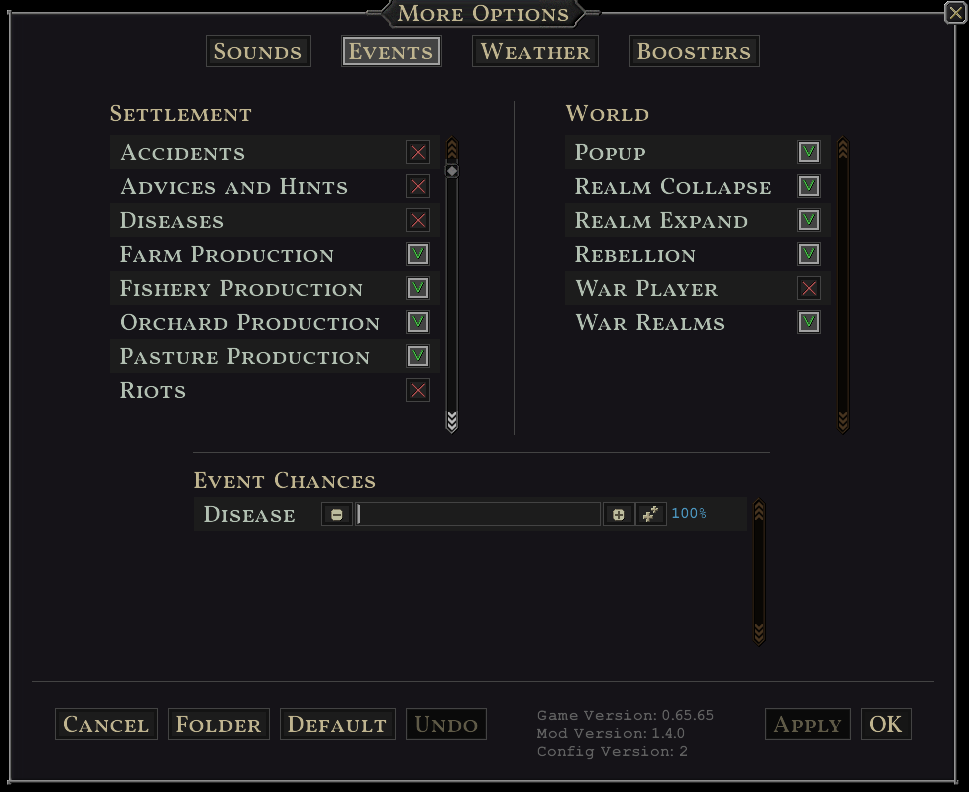
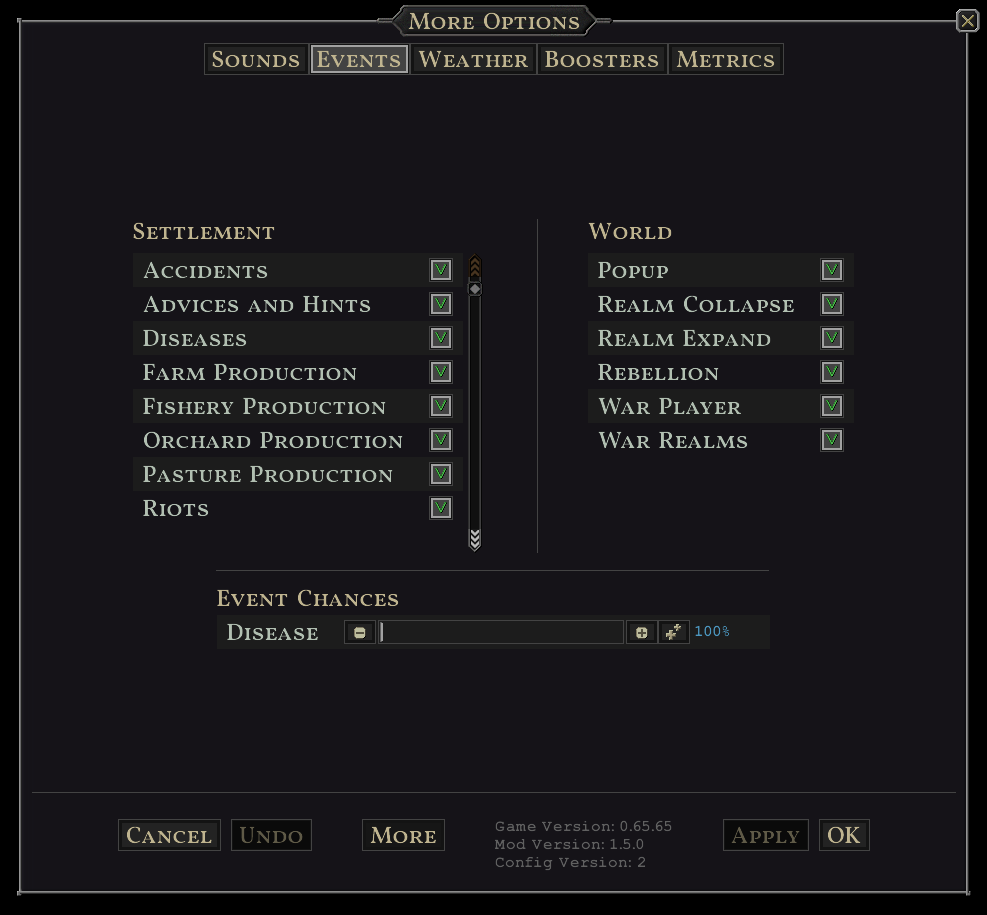
some code documentation; new screenshots;

diff --git a/src/main/java/com/github/argon/sos/moreoptions/metric/MetricScheduler.java b/src/main/java/com/github/argon/sos/moreoptions/metric/MetricScheduler.java
@@ -2,9 +2,7 @@ package com.github.argon.sos.moreoptions.metric;
 
 import com.github.argon.sos.moreoptions.log.Logger;
 import com.github.argon.sos.moreoptions.log.Loggers;
-import lombok.AllArgsConstructor;
-import lombok.Builder;
-import lombok.Getter;
+import lombok.*;
 import org.jetbrains.annotations.Nullable;
 
 import java.util.HashMap;
@@ -13,6 +11,11 @@ import java.util.concurrent.Executors;
 import java.util.concurrent.ScheduledExecutorService;
 import java.util.concurrent.TimeUnit;
 
+/**
+ * For scheduling tasks.
+ * Used for collecting and exporting metrics.
+ */
+@RequiredArgsConstructor(access = AccessLevel.PRIVATE)
 public class MetricScheduler {
     @Getter(lazy = true)
     private final static MetricScheduler instance = new MetricScheduler();

diff --git a/src/main/java/com/github/argon/sos/moreoptions/metric/StatsCollector.java b/src/main/java/com/github/argon/sos/moreoptions/metric/StatsCollector.java
@@ -15,12 +15,22 @@ import snake2d.util.sets.LIST;
 
 import java.util.*;
 
+/**
+ * For collecting game stats.
+ * Used by the {@link MetricCollector} for collecting {@link Metric}
+ */
 @RequiredArgsConstructor
 class StatsCollector {
     private final static Logger log = Loggers.getLogger(StatsCollector.class);
 
+    /**
+     * Reads only stats from given whitelist. An empty list means read all stats.
+     */
     private final Set<String> whitelist;
 
+    /**
+     * Some stats seem broken for some reason
+     */
     private final static List<String> STAT_KEYS_BLACK_LIST = Lists.of(
         "HOME_FURNITURE"
     );

diff --git a/src/main/java/com/github/argon/sos/moreoptions/metric/MetricCollector.java b/src/main/java/com/github/argon/sos/moreoptions/metric/MetricCollector.java
@@ -3,12 +3,18 @@ package com.github.argon.sos.moreoptions.metric;
 import com.github.argon.sos.moreoptions.log.Logger;
 import com.github.argon.sos.moreoptions.log.Loggers;
 import com.github.argon.sos.moreoptions.util.Lists;
+import lombok.AccessLevel;
 import lombok.Getter;
+import lombok.RequiredArgsConstructor;
 import settlement.stats.STATS;
 import settlement.stats.stat.STAT;
 
 import java.util.*;
 
+/**
+ * For collecting game stats as {@link Metric}
+ */
+@RequiredArgsConstructor(access = AccessLevel.PRIVATE)
 public class MetricCollector {
 
     @Getter(lazy = true)

diff --git a/src/main/java/com/github/argon/sos/moreoptions/ui/MoreOptionsView.java b/src/main/java/com/github/argon/sos/moreoptions/ui/MoreOptionsView.java
@@ -26,8 +26,6 @@ import java.util.List;
 /**
  * Main window containing all other UI elements.
  * Will pop up in the middle of the game and pauses the game.
- *
- * FIXME: Elements in this modal should be final
  */
 public class MoreOptionsView extends GuiSection implements
     Showable<MoreOptionsView>,

diff --git a/src/main/java/com/github/argon/sos/moreoptions/metric/MetricExporter.java b/src/main/java/com/github/argon/sos/moreoptions/metric/MetricExporter.java
@@ -10,6 +10,9 @@ import java.nio.file.Path;
 import java.time.Instant;
 import java.util.List;
 
+/**
+ * For exporting game stats as {@link Metric} into a CSV file
+ */
 public class MetricExporter {
     @Getter(lazy = true)
     private final static MetricExporter instance = new MetricExporter(

diff --git a/src/main/java/com/github/argon/sos/moreoptions/metric/CSVWriter.java b/src/main/java/com/github/argon/sos/moreoptions/metric/CSVWriter.java
@@ -18,6 +18,9 @@ import java.util.List;
 import java.util.Map;
 import java.util.stream.Collectors;
 
+/**
+ * Writes data in CSV format into a file
+ */
 @RequiredArgsConstructor(access = AccessLevel.PRIVATE)
 public class CSVWriter {
 

diff --git a/src/main/java/com/github/argon/sos/moreoptions/metric/Metric.java b/src/main/java/com/github/argon/sos/moreoptions/metric/Metric.java
@@ -13,6 +13,10 @@ import java.util.HashMap;
 import java.util.List;
 import java.util.Map;
 
+/**
+ * Serves as holder for the collected game stats.
+ * Has some information about time.
+ */
 @Getter
 @Builder
 @AllArgsConstructor

diff --git a/README.md b/README.md
@@ -13,6 +13,7 @@ Adds a menu with more options for the game:
 ![Events](doc/img/events.png)
 ![Weather](doc/img/weather.png)
 ![Boosters](doc/img/boosters.png)
+![Metrics](doc/img/metrics.png)
 ![Backup](doc/img/backup.png)
 
 # Getting started
